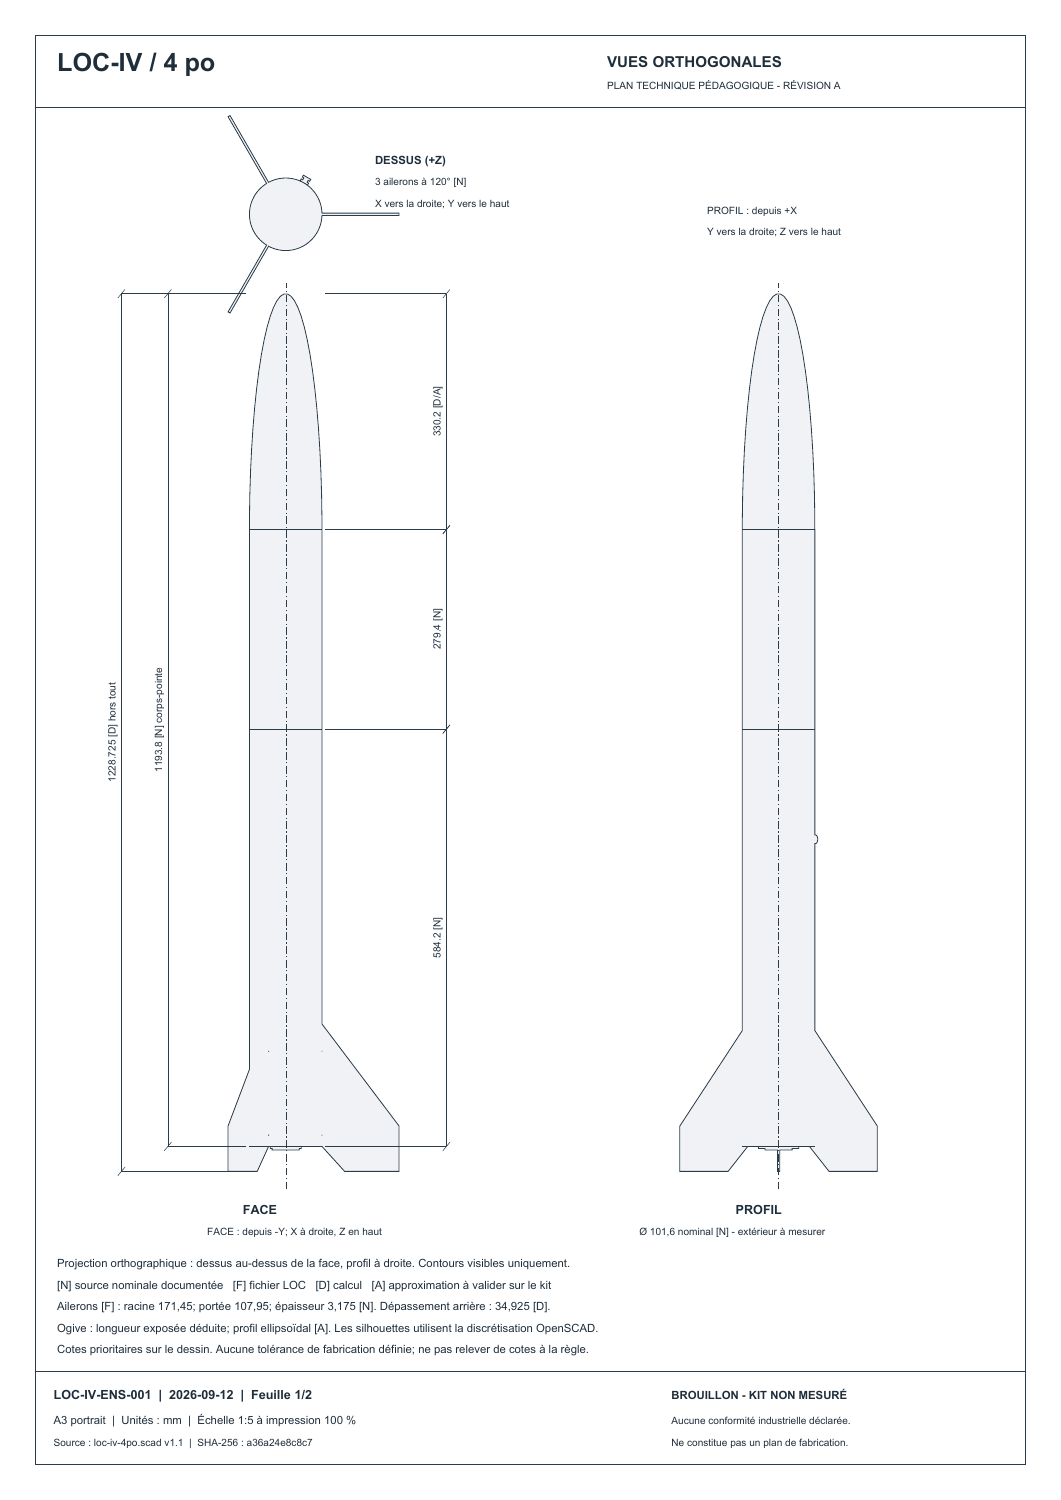
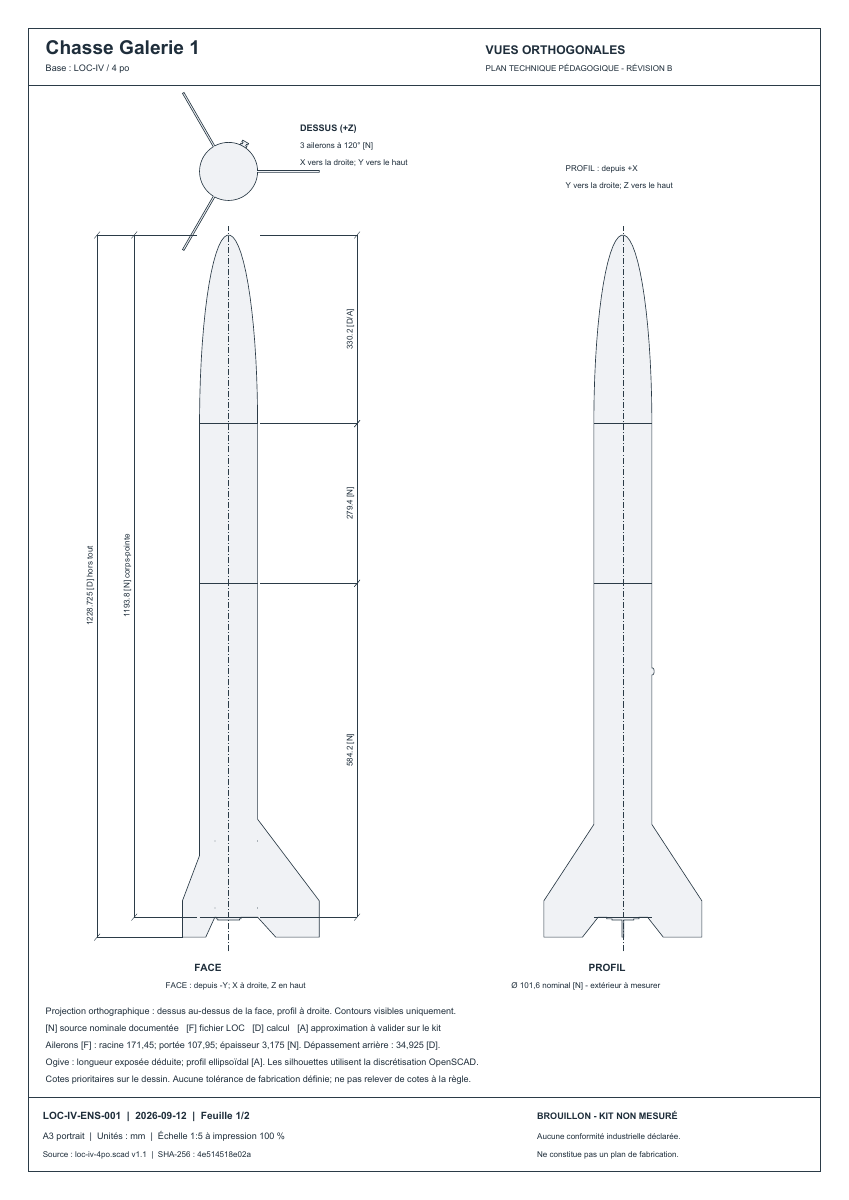
Nommer le projet et la fusée Chasse Galerie 1

diff --git a/plans/outils/generer-plan-ensemble.py b/plans/outils/generer-plan-ensemble.py
@@ -40,7 +40,7 @@ nose = total-booster-payload
 aft = val('fin_aft_extent')-val('fin_root')
 stamp = hashlib.sha256(SOURCE.read_bytes()).hexdigest()[:12]
 c = canvas.Canvas(str(OUT/'loc-iv-plan-ensemble.pdf'), pagesize=(297*mm,420*mm))
-c.setTitle("LOC-IV 4 po - Plan d'ensemble avec vue écorchée")
+c.setTitle("Chasse Galerie 1 - LOC-IV 4 po - Plan d'ensemble avec vue écorchée")
 c.setAuthor("Projet de Steve Prud'Homme")
 
 def text(x,y,s,size=9,bold=False):
@@ -50,8 +50,8 @@ def line(x,y,a,b): c.line(x*mm,y*mm,a*mm,b*mm)
 def header(page,title,scale):
     c.setStrokeColorRGB(.17,.23,.28); c.setFillColorRGB(.12,.18,.23); c.setLineWidth(.25*mm)
     c.rect(10*mm,10*mm,277*mm,400*mm)
-    text(16,400,'LOC-IV / 4 po',20,True); text(170,401,title,12,True)
-    text(170,395,'PLAN TECHNIQUE PÉDAGOGIQUE - RÉVISION A',8)
+    text(16,401,'Chasse Galerie 1',19,True); text(16,395,'Base : LOC-IV / 4 po',9); text(170,401,title,12,True)
+    text(170,395,'PLAN TECHNIQUE PÉDAGOGIQUE - RÉVISION B',8)
     line(10,390,287,390)
     line(10,36,287,36)
     text(15,28,'LOC-IV-ENS-001  |  2026-09-12  |  Feuille '+str(page)+'/2',10,True)

diff --git a/plans/ensemble/README.md b/plans/ensemble/README.md
@@ -1,6 +1,8 @@
 # Plan d'ensemble LOC-IV avec vue écorchée
 
-[Ouvrir le PDF A3, révision A](loc-iv-plan-ensemble.pdf).
+**Projet et fusée : Chasse Galerie 1.** Base technique : kit LOC-IV 4 po. Les noms de fichiers `loc-iv-*` sont conservés pour maintenir les liens et la traçabilité des références.
+
+[Ouvrir le PDF A3, révision B](loc-iv-plan-ensemble.pdf).
 
 Ce document pédagogique complète le [modèle paramétrique](../README.md). Il décrit sa révision 1.1, avec les ailerons issus du fichier LOC, et conserve les approximations signalées dans le code. Ce n'est pas un dessin de définition pour fabrication et aucune conformité à une norme industrielle n'est déclarée.
 
@@ -36,3 +38,5 @@ Sans `--render`, le script refait seulement le PDF depuis les SVG/PNG existants.
 ## Vérification du 2026-09-12
 
 Trois exports SVG OpenSCAD réussis; modèle écorché également compilé par CGAL (`Simple: yes`). PDF de deux pages A3 rendu par Poppler et contrôlé visuellement. Aucun changement de géométrie du modèle paramétrique. Validation dimensionnelle sur le kit et conformité industrielle non effectuées.
+
+Révision B : ajout du nom **Chasse Galerie 1** dans le cartouche et les métadonnées; géométrie et cotes inchangées.

diff --git a/CHANGELOG.md b/CHANGELOG.md
@@ -1,5 +1,10 @@
 # Historique des changements
 
+## 2026-09-12 — Nom du projet : Chasse Galerie 1
+- Attribution du nom Chasse Galerie 1 au projet et à la fusée; LOC-IV reste la référence du kit.
+- Mise à jour des index, aides, notes, noms OpenRocket, en-tête OpenSCAD et cartouche du plan d’ensemble (révision B).
+- Conservation des chemins existants; aucune modification de géométrie ni de paramètres de simulation.
+
 ## 2026-09-12 — Aide OpenRocket pour la LOC-IV complète
 - Ajout d'un parcours débutant pour ouvrir ou reconstruire l'ensemble des 19 composants du modèle, configurer moteurs et récupération, examiner masse/CG et simuler tout le vol.
 - Ajout des cotes, positions, masses estimées, quatre configurations, conditions, contrôles, dépannage et synchronisation XML/ORK; référencement dans les index.

diff --git a/plans/README.md b/plans/README.md
@@ -1,5 +1,7 @@
 # Plans
 
+**Projet et fusée : Chasse Galerie 1.** Base technique : kit LOC-IV 4 po. Les noms de fichiers `loc-iv-*` sont conservés pour maintenir les liens et la traçabilité des références.
+
 Plans, schémas, fichiers sources et décisions. Préciser versions, unités, hypothèses et sources. Utiliser le [gabarit de plan](../modeles/plan.md).
 
 **Première utilisation d'OpenSCAD ?** Suivre l'[aide à la tâche pour débuter et coder la LOC-IV](../aides-a-la-tache/debuter-openscad-loc-iv.md), avec des exercices expliqués pas à pas.

diff --git a/aides-a-la-tache/debuter-openrocket-loc-iv.md b/aides-a-la-tache/debuter-openrocket-loc-iv.md
@@ -1,5 +1,7 @@
 # Aide à la tâche — Construire et simuler la LOC-IV complète dans OpenRocket
 
+**Projet et fusée : Chasse Galerie 1.** Base technique : kit LOC-IV 4 po. Les noms de fichiers `loc-iv-*` sont conservés pour maintenir les liens et la traçabilité des références.
+
 - **Date :** 2026-09-12
 - **Statut :** brouillon pédagogique; inventaire et réglages contrôlés contre le modèle du dépôt. Parcours dans l’interface à faire essayer par une personne débutante.
 - **Auteur :** Steve Prud’Homme, avec assistance Codex.

diff --git a/aides-a-la-tache/debuter-openscad-loc-iv.md b/aides-a-la-tache/debuter-openscad-loc-iv.md
@@ -1,5 +1,7 @@
 # Aide à la tâche — Débuter avec OpenSCAD et coder le plan LOC-IV
 
+**Projet et fusée : Chasse Galerie 1.** Base technique : kit LOC-IV 4 po. Les noms de fichiers `loc-iv-*` sont conservés pour maintenir les liens et la traçabilité des références.
+
 - **Date :** 2026-09-12
 - **Statut :** brouillon pédagogique; exemples vérifiés avec OpenSCAD 2021.01. Essai par une personne débutante à réaliser.
 - **Auteur :** Steve Prud’Homme, avec assistance Codex.

diff --git a/notes/loc-iv-configuration-budget-niveau-1.md b/notes/loc-iv-configuration-budget-niveau-1.md
@@ -1,5 +1,7 @@
 # Note — LOC-IV : configuration et budget niveau 1
 
+**Projet et fusée : Chasse Galerie 1.** Base technique : kit LOC-IV 4 po. Les noms de fichiers `loc-iv-*` sont conservés pour maintenir les liens et la traçabilité des références.
+
 - **Date :** 2026-09-12
 - **Statut :** brouillon — configuration à valider par simulation; prix et disponibilité à reconfirmer
 - **Auteur :** Steve Prud’Homme, synthèse de conversation assistée par ChatGPT/Codex

diff --git a/plans/loc-iv-openrocket.md b/plans/loc-iv-openrocket.md
@@ -1,5 +1,7 @@
 # LOC-IV 4 po — modèle OpenRocket simulable
 
+**Projet et fusée : Chasse Galerie 1.** Base technique : kit LOC-IV 4 po. Les noms de fichiers `loc-iv-*` sont conservés pour maintenir les liens et la traçabilité des références.
+
 - **Date :** 2026-09-12
 - **Statut :** brouillon de simulation — dimensions, masses et conditions à valider.
 - **Auteur :** Steve Prud’Homme, avec assistance Codex.

diff --git a/README.md b/README.md
@@ -1,4 +1,6 @@
-# Fuséonautique — Certification niveau 1
+# Chasse Galerie 1 — Certification niveau 1
+
+**Chasse Galerie 1** est le nom du projet et de la fusée, construite à partir du kit **LOC-IV 4 po de LOC Precision**.
 
 Projet personnel de **Steve Prud’Homme** pour consigner sa préparation à la certification de niveau 1 auprès de l’Association canadienne de fuséonautique.
 

diff --git a/ROADMAP.md b/ROADMAP.md
@@ -1,4 +1,4 @@
-# Feuille de route — LOC-IV et certification niveau 1
+# Feuille de route — Chasse Galerie 1 et certification niveau 1
 
 Mise à jour : 2026-09-12. Organisation du projet personnel; cette liste ne constitue pas les exigences officielles de certification. Une validation logicielle ne vaut pas validation du kit ni autorisation de lancement.
 
